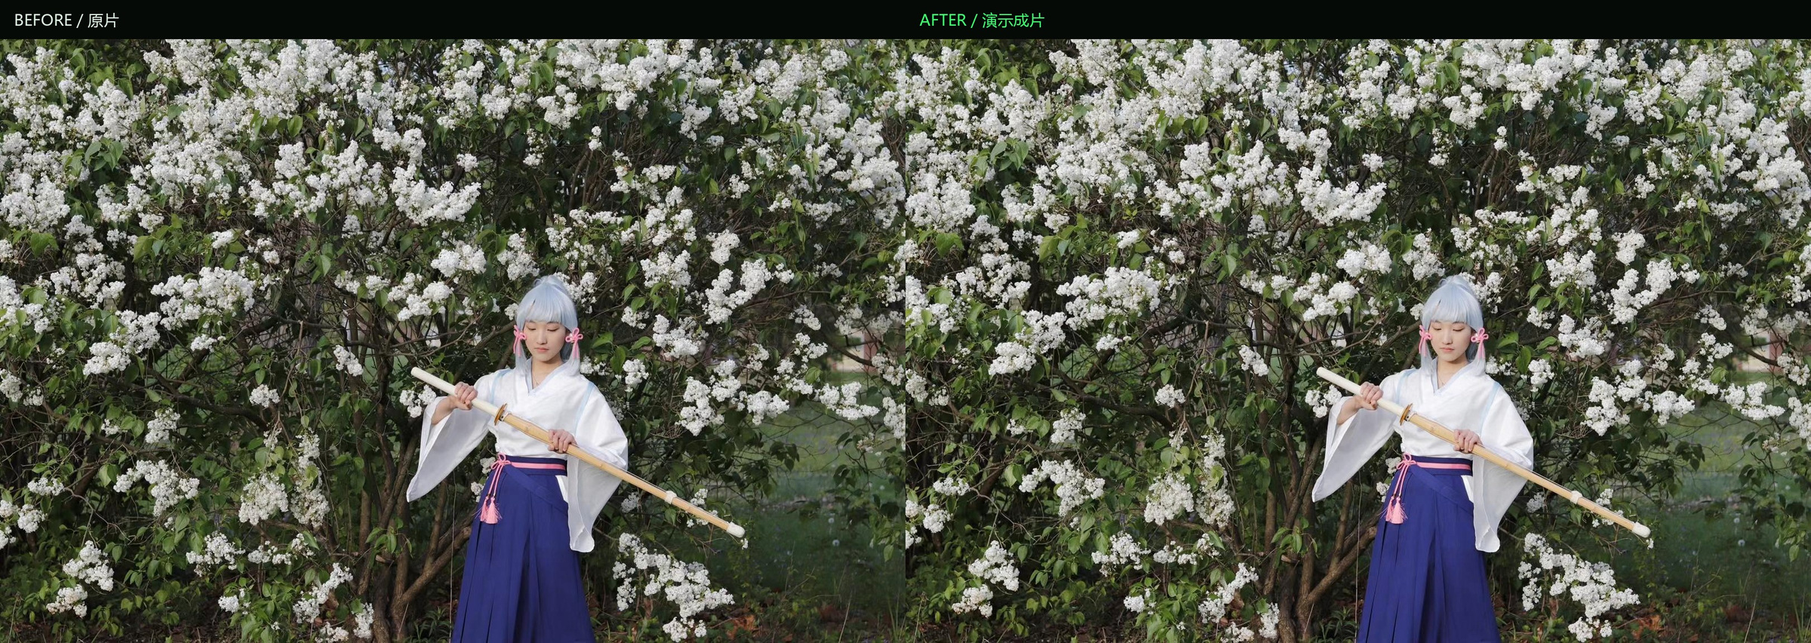
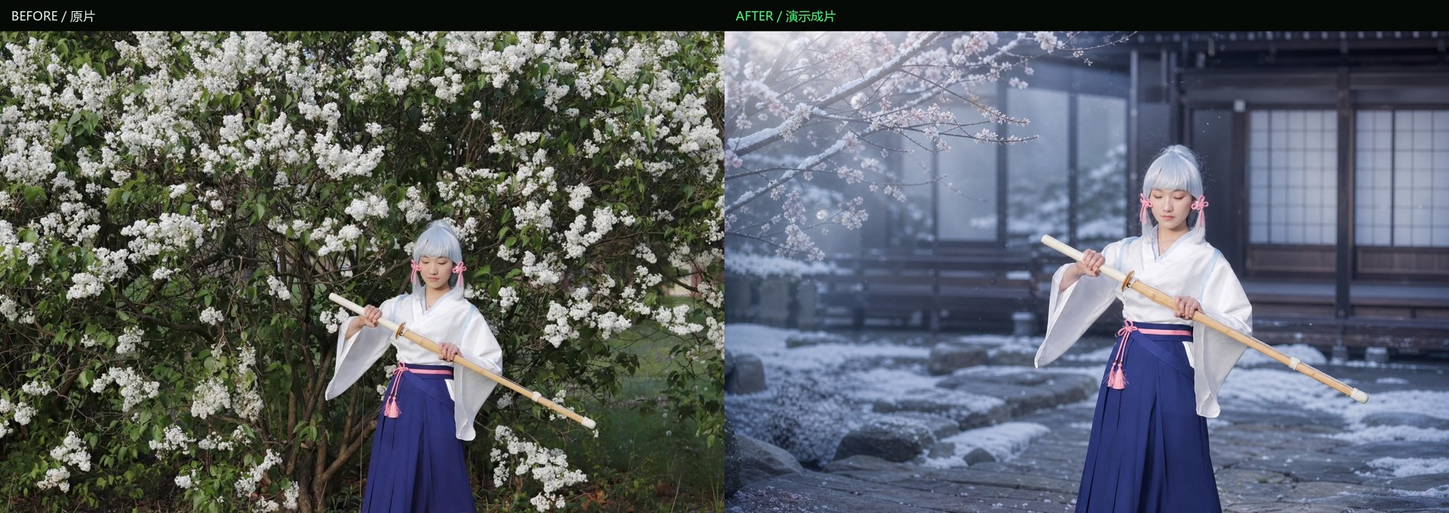
docs(demo): add Ayaka retouch showcase and neural narration

diff --git a/website/coskit/index.html b/website/coskit/index.html
@@ -23,15 +23,15 @@
   <div class="hero-grid"><div><h1>对话与画笔，<br>同一张<span>画布。</span><b class="cursor" aria-hidden="true">_</b></h1>
   <p class="lead">把后期的想法说出来，再亲手打磨每一个细节。<br>为 Cosplay 创作准备的开源图像工作台。</p>
   <div class="actions"><a class="button primary" href="#download">获取 CosKit <span>↓</span></a><a class="button" href="#tutorial">观看新手教程 <span>▶</span></a></div></div>
-  <aside class="terminal" aria-label="版本信息"><div class="terminal-bar"><i></i><i></i><i></i><span>release / manifest</span></div><p><span class="green">&gt;</span> coskit --version</p><strong>1.0.0 <span class="green">[STABLE]</span></strong><dl><div><dt>PLATFORM</dt><dd>Windows x64</dd></div><div><dt>WORKSPACE</dt><dd>Rust · egui · wgpu</dd></div><div><dt>PROJECT</dt><dd>.ckpipe / layers + history</dd></div><div><dt>LICENSE</dt><dd>MIT / 第三方许可保留</dd></div></dl><p class="muted">你的判断，始终在工作流里。</p></aside></div>
-  <figure class="workspace"><div class="frame-label"><span>01 / THE WORKSPACE</span><span>真实软件截图 · 原生桌面工作台</span></div><img src="media/workspace.webp" alt="CosKit 原生工作台，花间人像、AI 对话侧栏和底部版本条" width="1600" height="880" fetchpriority="high"><figcaption><span>FLUENT WORKSPACE</span> 中性画布 · 可组合侧栏 · 缩略图版本条</figcaption></figure>
+  <aside class="terminal" aria-label="版本信息"><div class="terminal-bar"><i></i><i></i><i></i><span>release / manifest</span></div><p><span class="green">&gt;</span> coskit --version</p><strong>1.0.0 <span class="green">[STABLE]</span></strong><dl><div><dt>PLATFORM</dt><dd>Windows · macOS</dd></div><div><dt>WORKSPACE</dt><dd>Rust · egui · wgpu</dd></div><div><dt>PROJECT</dt><dd>.ckpipe / layers + history</dd></div><div><dt>LICENSE</dt><dd>MIT / 第三方许可保留</dd></div></dl><p class="muted">你的判断，始终在工作流里。</p></aside></div>
+  <figure class="workspace"><div class="frame-label"><span>01 / THE WORKSPACE</span><span>真实软件截图 · 原生桌面工作台</span></div><img src="media/workspace.webp" alt="CosKit 原生工作台，神里绫华雪霁庭院修图、AI 对话侧栏和底部版本条" width="1600" height="880" fetchpriority="high"><figcaption><span>FLUENT WORKSPACE</span> 中性画布 · 可组合侧栏 · 缩略图版本条</figcaption></figure>
 </section>
 <section class="section wrap" id="compare">
-  <div class="section-head"><div><p class="eyebrow">02 / FROM INTENT TO IMAGE</p><h2>让结果自己说话。</h2></div><p>同一张照片，同一个尺寸。<br>拖动分界线，比较原片与本次演示成片。</p></div>
-  <div class="comparison" style="--split:50%"><img src="media/before.webp" alt="修图前：花树下的 Cosplay 人像" width="1620" height="1080" loading="lazy"><img class="after" src="media/after.webp" alt="修图后：更通透的肤色与白衣、柔和层次和克制的氛围光" width="1620" height="1080" loading="lazy"><div class="divider" aria-hidden="true"><span>↔</span></div><span class="image-label before-label">BEFORE / 原片</span><span class="image-label after-label">AFTER / 演示成片</span><input id="compare-range" type="range" min="0" max="100" value="50" aria-label="修图前后分界位置" aria-valuetext="原片与成片各显示一半"></div>
+  <div class="section-head"><div><p class="eyebrow">02 / FROM INTENT TO IMAGE</p><h2>让结果自己说话。</h2></div><p>同一张照片，画布尺寸不变。<br>拖动分界线，比较原片与本次演示成片。</p></div>
+  <div class="comparison" style="--split:50%"><img src="media/before.webp" alt="修图前：花树下的 Cosplay 人像" width="1620" height="1080" loading="lazy"><img class="after" src="media/after.webp" alt="修图后：雪霁庭院换景、清冷晨光、自然肤色与衣料层次" width="1620" height="1080" loading="lazy"><div class="divider" aria-hidden="true"><span>↔</span></div><span class="image-label before-label">BEFORE / 原片</span><span class="image-label after-label">AFTER / 演示成片</span><input id="compare-range" type="range" min="0" max="100" value="50" aria-label="修图前后分界位置" aria-valuetext="原片与成片各显示一半"></div>
   <div class="compare-controls"><span>← 原片</span><label for="compare-range">拖动或使用方向键 · <output id="compare-value">50%</output></label><span>成片 →</span></div>
-  <div class="prompt"><span class="green">USER &gt;</span><p>清新、通透的花间人像。改善人物与白衣的层次，保留肤质、发丝、花朵和身份，不改变构图。</p><span class="tag">目标由你定 · 步骤由模型分析</span></div>
-  <p class="note">本页展示一次实际修图，不代表每次模型输出都相同。演示成片包含效果检查与独立图层上的笔刷收尾；详细过程见下方教程。</p>
+  <div class="prompt"><span class="green">USER &gt;</span><p>将这张神里绫华照片修成雪霁庭院的清晨氛围。更换背景、自然美颜磨皮、统一调色与光影，保留闭眼神态、发丝、服装和道具，画布尺寸不变。</p><span class="tag">目标由你定 · 步骤由模型分析</span></div>
+  <p class="note">本页展示一次实际修图，允许优化人物的位置与占比，画布保持 1620×1080。模型每次输出可能不同。演示成片包含效果检查与独立图层上的笔刷收尾；角色方向参考《原神》官方 PV《雪霁逢椿》与角色资料，详细过程见下方教程。</p>
 </section>
 <section class="section wrap" id="workflow">
   <div class="section-head"><div><p class="eyebrow">03 / ONE CONTINUOUS WORKFLOW</p><h2>从一句目标，到可继续编辑。</h2></div><p>AI 与基础编辑共享工程。<br>保留图层，也保留作出选择的过程。</p></div>
@@ -43,14 +43,14 @@
   </div>
 </section>
 <section class="section wrap" id="tutorial">
-  <div class="section-head"><div><p class="eyebrow">04 / START HERE</p><h2>看一次，就能开始。</h2></div><p>功能介绍 + 新手操作教程<br>真实窗口录制 · 中文旁白 · 中英字幕</p></div>
+  <div class="section-head"><div><p class="eyebrow">04 / START HERE</p><h2>看一次，就能开始。</h2></div><p>神里绫华复杂修图 + 新手操作教程<br>真实窗口录制 · 神经语音旁白 · 中英字幕</p></div>
   <div class="video-frame"><video controls playsinline preload="metadata" poster="media/tutorial-poster.jpg" aria-label="CosKit 1.0.0 功能介绍与新手教程"><source src="media/coskit-tutorial.mp4" type="video/mp4"><track kind="subtitles" src="media/tutorial.zh.vtt" srclang="zh-CN" label="简体中文"><track kind="subtitles" src="media/tutorial.en.vtt" srclang="en" label="English"><p>浏览器不支持视频，请<a href="media/coskit-tutorial.mp4">下载 MP4</a>。</p></video></div>
-  <p class="note">录屏通过原生窗口帧采集，由本地 MCP 驱动实际编辑器；教程压缩了等待过程，画面会标示加速。旁白为合成语音。</p>
+  <p class="note">录屏通过原生窗口帧采集，由本地 MCP 驱动实际编辑器；教程压缩了等待过程，画面会标示加速。旁白采用晓晓神经合成语音，不仿冒角色声优。</p>
   <ol class="steps"><li><span>01</span><div><h3>打开照片，保存基准</h3><p>先保存为 .ckpipe，给起始版本命名。</p></div></li><li><span>02</span><div><h3>描述目标，检查结果</h3><p>配置自己的视觉模型，只描述希望达到的效果。</p></div></li><li><span>03</span><div><h3>局部收尾，另存导出</h3><p>独立图层画光影，比较细节，再导出 PNG/JPEG。</p></div></li></ol>
 </section>
 <section class="section wrap" id="download">
   <div class="section-head"><div><p class="eyebrow">05 / INSTALL + BUILD</p><h2>从这里开始创作。</h2></div><span class="tag">v1.0.0 / 第一个正式版本</span></div>
-  <div class="download-grid"><article class="panel"><h3>Windows x64</h3><p>提供安装版与便携 ZIP。便携版解压后运行 coskit.exe；基础编辑无需配置模型。</p><a class="button primary" href="https://github.com/DongSky/CosKit/releases" target="_blank" rel="noopener">查看发行页 <span>↗</span></a><p class="note">文件名：CosKit_1.0.0_x64-setup.exe<br>CosKit_1.0.0_x64_portable.zip<br>以发行页实际提供的附件为准。</p></article><article class="panel"><h3>从源码构建</h3><p>Rust 1.95+ · Node.js 20+ · Python 3<br>Windows 需 C++ Build Tools；打包另需 NSIS。</p><div class="code"><button id="copy-build" type="button" aria-label="复制构建命令">复制</button><pre id="build-code">git clone https://github.com/DongSky/CosKit.git
+  <div class="download-grid"><article class="panel"><h3>Windows x64</h3><p>提供安装版与便携 ZIP。便携版解压后运行 coskit.exe；基础编辑无需配置模型。</p><a class="button primary" href="https://github.com/DongSky/CosKit/releases/tag/v1.0.0" target="_blank" rel="noopener">查看发行页 <span>↗</span></a><p class="note">文件名：CosKit_1.0.0_x64-setup.exe<br>CosKit_1.0.0_x64_portable.zip<br>另提供 macOS Apple Silicon / Intel ZIP。</p></article><article class="panel"><h3>从源码构建</h3><p>Rust 1.95+ · Node.js 20+ · Python 3<br>Windows 需 C++ Build Tools；打包另需 NSIS。</p><div class="code"><button id="copy-build" type="button" aria-label="复制构建命令">复制</button><pre id="build-code">git clone https://github.com/DongSky/CosKit.git
 cd CosKit
 npm run build</pre></div><a class="text-link" href="https://github.com/DongSky/CosKit#readme" target="_blank" rel="noopener">阅读完整安装与模型配置说明 ↗</a><span id="copy-status" role="status" aria-live="polite"></span></article></div>
   <div class="roadmap"><span class="eyebrow">NEXT / TODO</span><p><span class="status pending">○ PLANNED</span> Android</p><p><span class="status pending">○ EXPLORING</span> 更多新功能：工作流、笔刷与创作体验</p></div>

diff --git a/scripts/render-release-media.py b/scripts/render-release-media.py
@@ -1,9 +1,9 @@
 """Build metadata-free local promo images and a captioned tutorial from real footage.
 
 Usage: python scripts/render-release-media.py --media /path/to/local/demo
-Requires Pillow, FFmpeg, and Windows System.Speech with a Chinese voice.
+Requires Pillow, FFmpeg, and edge-tts (optionally in a separate voice venv).
 """
-import argparse, json, math, pathlib, shutil, subprocess, textwrap, wave
+import argparse, json, math, pathlib, shutil, subprocess, sys, textwrap, wave
 from PIL import Image, ImageDraw, ImageFont
 
 ROOT=pathlib.Path(__file__).resolve().parents[1]
@@ -19,10 +19,12 @@ def fresh(path):
     src=Image.open(path).convert('RGB'); out=Image.new('RGB',src.size);out.paste(src);return out
 
 def main():
-    p=argparse.ArgumentParser();p.add_argument('--media',type=pathlib.Path,required=True);a=p.parse_args();base=a.media.resolve()
+    p=argparse.ArgumentParser();p.add_argument('--media',type=pathlib.Path,required=True);p.add_argument('--advanced',action='store_true');p.add_argument('--voice-python',default=sys.executable);p.add_argument('--voice',default='zh-CN-XiaoxiaoNeural');a=p.parse_args();base=a.media.resolve()
     web=base/'site-package/coskit/media';web.mkdir(parents=True,exist_ok=True)
     video=base/'video';video.mkdir(exist_ok=True)
     images={'before':base/'originals/source.png','after':base/'exports/after.png',**{n:base/'screenshots'/f'{n}.png' for n in ['workspace','ai-review','brush','parameters','detail']}}
+    clean_workspace=base/'screenshots/workspace-clean.png'
+    if clean_workspace.exists():images['workspace']=clean_workspace
     for name,path in images.items():fresh(path).save(web/f'{name}.webp',quality=90,method=6)
     before=fresh(images['before']);after=fresh(images['after'])
     compare=Image.new('RGB',(before.width*2,before.height+70),BG)
@@ -39,23 +41,45 @@ def main():
         photo=after.resize((960,640),Image.Resampling.LANCZOS);image.paste(photo,(865,215));d.rectangle((864,214,1826,856),outline=(46,90,58),width=2)
         d.text((90,968),'凉月 / Suzutsuki   ·   真实窗口演示 / REAL APP CAPTURE',font=font(24),fill=MUTED)
         image.save(video/f'{name}.png');return image
-    card('对话与画笔，\n同一张画布。','功能介绍 + 新手教程\n从原片，到可继续编辑的成片','intro').resize((1200,675)).save(web/'tutorial-poster.jpg',quality=93)
+    card('雪霁之后，\n庭前试刀。' if a.advanced else '对话与画笔，\n同一张画布。','复杂修图实战\n神里绫华 · 庭院换景 · 自然精修' if a.advanced else '功能介绍 + 新手教程\n从原片，到可继续编辑的成片','intro').resize((1200,675)).save(web/'tutorial-poster.jpg',quality=93)
     card('保留每一次尝试。','保存 .ckpipe 留下完整工程\n导出 PNG / JPEG 分享成片','outro')
     fresh(web/'tutorial-poster.jpg').resize((1200,630)).save(web/'social-card.jpg',quality=92)
     chapters=json.loads((base/'recordings/timeline.json').read_text(encoding='utf-8'))['chapters'];times={x['name']:x['time'] for x in chapters}
     script=[
       ('intro','CosKit 1.0.0','第一个正式版本 · 对话修图 + 原生编辑','欢迎使用 Cos Kit 一点零。这是第一个正式版本。接下来，用一张花间人像，看一次从对话修图到手工收尾的完整流程。','Welcome to CosKit 1.0, the first stable release. Follow a floral portrait from conversational editing to manual finishing.'),
-      ('open','01 / 打开照片，留下原片','Ctrl+O 打开 · 另存为 .ckpipe · 记录基准','先打开照片，确认画布尺寸。另存为 CK Pipe 工程，再给起始版本命名。这样，后续的图层、参数、对话和版本，都能保存在同一个工程里。','Open the photo and check its dimensions. Save a CKPipe project and name a baseline. Layers, parameters, conversations and versions stay together.'),
+      ('open','01 / 打开照片，留下原片','Ctrl+O 打开 · 另存为 .ckpipe · 记录基准','打开照片后，先确认画布尺寸，再存一份工程，给原片留个版本。之后的图层、参数和对话，就都能保存在一起。想重新尝试，也有地方可以退回来。','Open the photo and check its dimensions. Save a CKPipe project and name a baseline. Layers, parameters, conversations and versions stay together.'),
       ('ai','02 / 只描述你想要的效果','先在「选项」配置模型 · 不需要指定具体工作流','使用对话前，在选项中配置自己的模型。这里只描述目标：让人物清新通透，同时保留肤质、白衣和花朵的层次。模型自己分析步骤，发现工具并执行。这一段等待已经加速。','Configure your models in Options. Describe the desired result, preserving skin, white fabric and flowers. The model discovers tools and plans the steps. Waiting is accelerated here.'),
       ('review','03 / 结果还需要细看','独立审核 · 原尺寸局部 · 不通过就回退','调整完成后，模型还会检查全图和原尺寸局部。你也可以展开过程记录，了解做了什么。审核通过后，结果才进入工程；是否满意，仍由你决定。','The reviewer inspects the whole image and native-size crops. Expand the trace to see the actions. Approved results enter the project; the final creative judgment remains yours.'),
       ('brush','04 / 在独立图层上收尾','低流量柔笔刷 · 克制地补一点花间光感','接下来新建图层，用低流量的柔笔刷，在花朵附近补一点柔光。手工收尾和 AI 使用同一张画布。独立图层让你随时降低强度、隐藏，或者撤销。','Create a separate layer and add restrained soft light near the flowers with a low-flow brush. Manual work shares the AI canvas. Reduce, hide or undo the layer whenever needed.'),
-      ('parameters','05 / 看得懂，也改得动','版本条「参数」 · 曲线、滑杆 · 明确选择基准','点开版本条的参数，可以直接看曲线和滑杆。需要重放时，先明确选择基准和编辑记录。重放成功会生成新分支，原来的版本仍然保留。','Open Parameters in the version strip for curves and sliders. Choose the baseline and operation before replaying. A successful replay creates a branch and retains earlier versions.'),
+      ('parameters','05 / 看得懂，也改得动','版本条「参数」 · 曲线、滑杆 · 明确选择基准','点开下方版本条里的参数，就能看到曲线和滑杆。想换一种调色，可以选好起始版本和那条编辑记录，再调整参数、重新执行。新的结果会单独留下来，方便继续比较。','Open Parameters in the version strip for curves and sliders. Choose the baseline and operation before replaying. A successful replay creates a branch and retains earlier versions.'),
       ('compare','06 / 从全图检查到发丝细节','对比 → 100% → 200% → 差异图','最后对比原片和成片。左右同步缩放，检查脸部、发丝与衣料。百分之百看原尺寸，百分之二百放大，差异图帮助定位变化。浏览对比不会修改画布。','Compare the original and result with synchronized views. Inspect the face, hair and fabric at 100% and 200%. Difference view locates changes. Comparison does not modify the canvas.'),
-      ('save','07 / 工程与成片，分别保存','保存 .ckpipe · 导出 PNG / JPEG','保存 CK Pipe 保留图层、对话和版本。需要分享时，再导出 PNG 或 JPEG。演示最后重新打开了工程，画布尺寸和导出的像素都与保存前一致。','Save CKPipe for layers, conversation and versions. Export PNG or JPEG for sharing. The demo reopens the project and verifies unchanged dimensions and exported pixels.'),
-      ('outro','CosKit 1.0.0','开源创作工作台 · 凉月 / Suzutsuki','从一个目标开始，也随时拿回画笔。Cos Kit 一点零，期待你的下一张作品。','Start with a goal, and pick up the brush whenever you want. CosKit 1.0 is ready for your next creative project.')]
+      ('save','07 / 工程与成片，分别保存','保存 .ckpipe · 导出 PNG / JPEG','修好以后，记得把工程也存下来。它会保留图层、对话和版本，方便下次接着改。发图时，再导出普通图片。普通图片会合并图层，所以工程也要留着。最后，我们重新打开工程，确认保存前后的尺寸和画面完全一致。','Save CKPipe for layers, conversation and versions. Export PNG or JPEG for sharing. The demo reopens the project and verifies unchanged dimensions and exported pixels.'),
+      ('outro','CosKit 1.0.0','开源创作工作台 · 凉月 / Suzutsuki','先说出想法，再动手打磨。希望这次演示，能给你的下一张作品一点灵感。','Start with a goal, and pick up the brush whenever you want. CosKit 1.0 is ready for your next creative project.')]
     segments=[dict(zip(['id','title','caption','zh','en'],x)) for x in script]
+    if a.advanced:
+        advanced = {
+            'intro': ('CosKit / 复杂修图实战','换背景 · 调色 · 自然美颜磨皮 · 光影融合',
+                '这次，我们来修一张神里绫华的照片。参考角色的冰元素和雪后庭院意象，先换背景，再整理肤色和光线。一起看看，对话修图和手工收尾，怎么在同一个工程里配合。',
+                'Retouch a Kamisato Ayaka cosplay with a snow-cleared courtyard, natural skin and coherent light, drawing on her Cryo and garden imagery. Follow conversational editing and manual finishing in the same project.'),
+            'ai': ('02 / 一条完整的成片指令','背景可重建 · 人物身份与服饰保留 · 画布尺寸不变',
+                '先说清楚想要的成片：雪后的日式庭院，冷白、浅蓝和淡紫，带一点清晨的暖光。保留人物的闭眼神态、服装和手里的道具。肤色修得自然一些，细节别磨掉。接下来，由模型安排步骤、调用工具，再检查效果。这里加速了等待过程。',
+                'Describe a Japanese courtyard after snow: cool whites, pale blue and lilac with a little warm morning light. Preserve the closed eyes, pose, costume, prop and skin detail. The harness plans, executes and reviews its workflow. Waiting is accelerated.'),
+            'review': ('03 / 换景之后，检查人物','检查脸、发丝、手部、服装和武器边缘',
+                '换好背景以后，先别急着导出。放大看看脸、手指和刀鞘，再检查发丝和白衣的边缘。模型会审核结果，发现新问题就回退。我们也要再看一遍，确认画面符合自己的想法。',
+                'After replacing the background, inspect the face, fingers, scabbard, hair and white fabric at full size. The harness reviews the result and rolls back new problems. Check the final image yourself as well.'),
+            'brush': ('04 / 独立图层补光','低流量软笔刷 · 保留可撤销的手工收尾',
+                '接着，新建一个图层，用低流量的软笔刷，轻轻补一点晨光。别涂到五官上，也不用一次画得太重。这个图层可以随时隐藏，或者降低强度，再慢慢找到合适的光感。',
+                'Add a restrained touch of ambient light on a separate layer with a low-flow soft brush, away from facial features. Manual finishing and AI edits share one project and remain editable.'),
+            'compare': ('06 / 大变化，也要查小细节','原尺寸对比 · 肤质 / 发丝 / 衣料 · 画布 1620 × 1080',
+                '现在把原片和成片放在一起看。先看整体，再放大检查肤质、发丝和衣料。留意有没有过度磨皮，边缘有没有不自然的亮圈。这里改变的只是查看倍率，画布仍然是一千六百二十乘一千零八十。',
+                'Compare the full image, then inspect the face, hair and white fabric. Look for excessive smoothing, edge halos and mismatched lighting. Zooming only changes the view: the canvas remains 1620 by 1080.'),
+        }
+        for segment in segments:
+            if segment['id'] in advanced:
+                segment.update(dict(zip(('title','caption','zh','en'),advanced[segment['id']])))
     (video/'storyboard.json').write_text(json.dumps(segments,ensure_ascii=False,indent=2),encoding='utf-8')
-    subprocess.run(['powershell','-NoProfile','-File',str(ROOT/'scripts/synthesize-release-narration.ps1'),'-Directory',str(video)],check=True)
+    subprocess.run([a.voice_python,str(ROOT/'scripts/synthesize-release-narration.py'),'--directory',str(video),'--voice',a.voice],check=True)
+    voice_manifest=json.loads((video/'voice-manifest.json').read_text(encoding='utf-8'))
     clock=0;subs={'zh':[],'en':[]};edits=[]
     def stamp(t):
         ms=round(t*1000);return f'{ms//3600000:02}:{ms//60000%60:02}:{ms//1000%60:02}.{ms%1000:03}'
@@ -84,11 +108,17 @@ def main():
         dest=video/(s['id']+'-edit.mp4')
         command=['ffmpeg','-hide_banner','-loglevel','error','-y',*inputs,'-i',str(video/(s['id']+'.wav')),*filters,'-map',f'{audio_index}:a','-af','apad,loudnorm=I=-16:TP=-1.5:LRA=11','-t',str(duration),'-c:v','libx264','-preset','fast','-crf','19','-c:a','aac','-b:a','160k','-ar','48000','-pix_fmt','yuv420p','-movflags','+faststart','-map_metadata','-1',str(dest)]
         run(command);edits.append(dest)
-        for lang in subs:subs[lang].append(f'{stamp(clock)} --> {stamp(clock+duration)}\n{s[lang]}\n')
+        cues=json.loads((video/(s['id']+'-timing.json')).read_text(encoding='utf-8'))
+        for cue_index,cue in enumerate(cues):
+            # Service sentence timings can overlap by about 50 ms.
+            next_start=cues[cue_index+1]['start'] if cue_index+1<len(cues) else duration
+            cue_end=min(cue['end'],next_start,duration)
+            subs['zh'].append(f"{stamp(clock+cue['start'])} --> {stamp(clock+cue_end)}\n{cue['text']}\n")
+        subs['en'].append(f"{stamp(clock)} --> {stamp(clock+duration)}\n{s['en']}\n")
         s.update(start=round(clock,3),duration=round(duration,3),playback_speed=round(speed,3));clock+=duration
         print('Rendered',s['id'],round(duration,1),'s',flush=True)
     concat=video/'concat.txt';concat.write_text('\n'.join("file '"+p.name+"'" for p in edits),encoding='utf-8')
-    final=video/'CosKit-1.0.0-introduction-and-tutorial.mp4'
+    final=video/('CosKit-1.0.0-advanced-retouch-tutorial.mp4' if a.advanced else 'CosKit-1.0.0-introduction-and-tutorial.mp4')
     run(['ffmpeg','-hide_banner','-loglevel','error','-y','-f','concat','-safe','0','-i',str(concat),'-c','copy','-map_metadata','-1','-movflags','+faststart',str(final)])
     probe=json.loads(subprocess.check_output(['ffprobe','-v','error','-show_streams','-of','json',str(final)]))
     assert any(s.get('codec_type')=='video' and s.get('width')==1920 and s.get('height')==1080 for s in probe['streams']), 'Missing 1080p video stream'
@@ -96,7 +126,7 @@ def main():
     shutil.copy2(final,web/'coskit-tutorial.mp4')
     for lang,cues in subs.items():
         text='WEBVTT\n\n'+'\n'.join(cues);(video/f'tutorial.{lang}.vtt').write_text(text,encoding='utf-8');(web/f'tutorial.{lang}.vtt').write_text(text,encoding='utf-8')
-    (video/'edit-manifest.json').write_text(json.dumps({'duration':clock,'segments':segments,'source':'real-window-capture','voice':'Microsoft Huihui Desktop','author':'Suzutsuki / 凉月'},ensure_ascii=False,indent=2),encoding='utf-8')
+    (video/'edit-manifest.json').write_text(json.dumps({'duration':clock,'segments':segments,'source':'real-window-capture','voice':voice_manifest,'author':'Suzutsuki / 凉月'},ensure_ascii=False,indent=2),encoding='utf-8')
     for file in (ROOT/'website/coskit').iterdir():
         if file.is_file():shutil.copy2(file,web.parent/file.name)
     local=ROOT/'website/coskit/media';local.mkdir(exist_ok=True)

diff --git a/scripts/create-release-demo.py b/scripts/create-release-demo.py
@@ -17,8 +17,13 @@ def main():
     parser.add_argument('--output', type=pathlib.Path, required=True)
     parser.add_argument('--ai-data', type=pathlib.Path, required=True)
     parser.add_argument('--port', type=int, default=50531)
+    parser.add_argument('--advanced', action='store_true', help='Full background, lighting and skin-retouch demo')
+    parser.add_argument('--prompt-file', type=pathlib.Path, help='UTF-8 creative brief, including verified character context')
     args = parser.parse_args()
+    if args.advanced and not args.prompt_file:
+        parser.error("--advanced requires --prompt-file with a verified creative brief")
     out = args.output.resolve()
+    project_path = 'exports/雪霁·庭前试刀.ckpipe' if args.advanced else 'exports/花间·演示.ckpipe'
     for folder in ('originals','screenshots','recordings','exports','video'):
         (out/folder).mkdir(parents=True, exist_ok=True)
     original = ImageOps.exif_transpose(Image.open(args.image)).convert('RGB')
@@ -55,14 +60,17 @@ def main():
             m.tool('doc_open',{'path':'originals/source.png'})
             m.control('ui.set',{'fit':True})
             m.command('coskit.project.checkpoint',{'label':'原片 · 花间'})
-            m.control('app.save',{'path':'exports/花间·演示.ckpipe'})
+            m.control('app.save',{'path':project_path})
             time.sleep(5);shot('before')
             mark('ai')
-            m.tool('ai_configure',{'harness_enabled':True,'harness_max_steps':16,'harness_max_images':0,'harness_max_rollbacks':3})
+            m.tool('ai_configure',{'harness_enabled':True,'harness_max_steps':24 if args.advanced else 16,'harness_max_images':4 if args.advanced else 0,'harness_max_rollbacks':3})
             prompt='请把这张花树下的 cosplay 人像修成清新通透、自然柔和的成片。适度改善人物肤色与白衣亮度，保留皮肤质感、银蓝发丝、白花高光和深蓝衣裙层次，背景绿叶稍微柔和一些。保持人物身份、五官、服装、花朵、武器、构图和画布尺寸，不增删物体，不磨皮成塑料，不要改动五官。你自行分析并决定调整与验收步骤。'
+            if args.prompt_file:
+                prompt=args.prompt_file.read_text(encoding='utf-8').strip()
+            (out/'recordings/demo-goal.txt').write_text(prompt,encoding='utf-8')
             m.tool('ai_edit',{'prompt':prompt})
             last=0
-            while time.monotonic()-start<950:
+            while time.monotonic()-start<(2100 if args.advanced else 950):
                 status=m.tool('ai_status')
                 if not status['busy']:break
                 elapsed=int(time.monotonic()-start)
@@ -74,13 +82,13 @@ def main():
             report['ai_outcome']=status['outcome']
             if status['outcome']!='applied':raise RuntimeError('AI did not apply a reviewed edit; inspect local private status')
             mark('review')
-            m.command('coskit.project.checkpoint',{'label':'AI · 通透调色'})
+            m.command('coskit.project.checkpoint',{'label':'AI · 换景 / 调色 / 自然精修' if args.advanced else 'AI · 通透调色'})
             time.sleep(5);shot('ai-review')
             m.tool('doc_save',{'path':'exports/ai.png'})
             time.sleep(5)
             mark('brush')
             m.control('ui.set',{'studio':{'inspector':'layers'}})
-            m.command('layer.new.layer',{'name':'手绘 · 花间柔光'})
+            m.command('layer.new.layer',{'name':'手绘 · 晨光' if args.advanced else '手绘 · 花间柔光'})
             # Original-photo coordinates. Soft light is placed among flowers, away from facial features.
             scale=clean.width/1620
             points=[(1110,330),(1130,305),(1150,280),(1170,255),(1190,235),(1210,220)]
@@ -88,7 +96,7 @@ def main():
                 m.tool('brush_stroke',{'preset':'Soft Round','points':[{'x':x*scale,'y':y*scale,'pressure':.35}],
                     'size':180*scale,'color':'#fff0d0','flow':.08,'opacity':.12,'seed':100+index})
                 time.sleep(.45)
-            m.command('coskit.project.checkpoint',{'label':'笔刷 · 花间柔光'})
+            m.command('coskit.project.checkpoint',{'label':'笔刷 · 晨光' if args.advanced else '笔刷 · 花间柔光'})
             time.sleep(4);shot('brush')
             mark('parameters')
             m.command('image.adjustments.curves',{'points':[[0,0],[64,66],[128,130],[192,194],[255,255]]})
@@ -111,12 +119,12 @@ def main():
             m.control('ui.set',{'studio':{'inspector':'ai'},'fit':True})
             info=m.tool('doc_inspect')
             assert (info['width'],info['height'])==clean.size
-            m.control('app.save',{'path':'exports/花间·演示.ckpipe'})
+            m.control('app.save',{'path':project_path})
             m.tool('doc_save',{'path':'exports/after.png'})
             time.sleep(6);shot('workspace')
             report['final_document']={k:info[k] for k in ('width','height')}
             # Save/reopen and verify decoded pixels, rather than relying on file existence.
-            m.tool('doc_open',{'path':'exports/花间·演示.ckpipe'})
+            m.tool('doc_open',{'path':project_path})
             m.tool('doc_save',{'path':'exports/reopened.png'})
             from PIL import ImageChops
             assert ImageChops.difference(Image.open(out/'exports/after.png'),Image.open(out/'exports/reopened.png')).getbbox() is None

diff --git a/scripts/synthesize-release-narration.py b/scripts/synthesize-release-narration.py
@@ -1,0 +1,61 @@
+"""Synthesize public tutorial text using Edge neural TTS; never fall back silently.
+
+Install edge-tts in a separate venv, then pass that interpreter to the renderer.
+Only storyboard text is sent to the online speech service.
+"""
+import argparse
+import asyncio
+import hashlib
+import json
+from pathlib import Path
+import subprocess
+
+import edge_tts
+
+
+async def synthesize(args):
+    directory = args.directory.resolve()
+    segments = json.loads((directory / 'storyboard.json').read_text(encoding='utf-8'))
+    manifest = {'provider': 'Microsoft Edge online neural TTS', 'voice': args.voice,
+                'rate': args.rate, 'segments': []}
+    for segment in segments:
+        name = segment['id']
+        if not name or any(c not in 'abcdefghijklmnopqrstuvwxyz0123456789-_' for c in name):
+            raise ValueError('Unsafe segment id')
+        text = segment['zh']
+        fingerprint = hashlib.sha256((args.voice + args.rate + text).encode()).hexdigest()
+        mp3 = directory / f'{name}-neural.mp3'
+        cache = directory / f'{name}-neural.json'
+        timing = directory / f'{name}-timing.json'
+        cached = json.loads(cache.read_text()) if cache.exists() else {}
+        if not mp3.exists() or not timing.exists() or cached.get('fingerprint') != fingerprint:
+            temporary = mp3.with_suffix('.tmp.mp3')
+            cues = []
+            with temporary.open('wb') as audio:
+                async for chunk in edge_tts.Communicate(text, args.voice, rate=args.rate).stream():
+                    if chunk['type'] == 'audio':
+                        audio.write(chunk['data'])
+                    elif chunk['type'] == 'SentenceBoundary':
+                        cues.append({'start': chunk['offset'] / 10000000,
+                                     'end': (chunk['offset'] + chunk['duration']) / 10000000,
+                                     'text': chunk['text']})
+            if not cues or temporary.stat().st_size == 0:
+                raise RuntimeError(f'Missing speech or subtitle timings: {name}')
+            temporary.replace(mp3)
+            timing.write_text(json.dumps(cues, ensure_ascii=False), encoding='utf-8')
+            cache.write_text(json.dumps({'fingerprint': fingerprint}), encoding='utf-8')
+        subprocess.run(['ffmpeg', '-hide_banner', '-loglevel', 'error', '-y', '-i', str(mp3),
+                        '-ar', '48000', '-ac', '1', '-map_metadata', '-1',
+                        str(directory / f'{name}.wav')], check=True)
+        manifest['segments'].append({'id': name, 'fingerprint': fingerprint})
+        print(f'Narration ready: {name}', flush=True)
+    (directory / 'voice-manifest.json').write_text(
+        json.dumps(manifest, ensure_ascii=False, indent=2), encoding='utf-8')
+
+
+if __name__ == '__main__':
+    parser = argparse.ArgumentParser(description=__doc__)
+    parser.add_argument('--directory', type=Path, required=True)
+    parser.add_argument('--voice', default='zh-CN-XiaoxiaoNeural')
+    parser.add_argument('--rate', default='-4%')
+    asyncio.run(synthesize(parser.parse_args()))

diff --git a/docs/demo-ayaka-brief.md b/docs/demo-ayaka-brief.md
@@ -1,0 +1,33 @@
+# 神里绫华演示修图参考
+
+角色身份由照片提供者明确确认。视觉设计先参考角色资料，再结合真人照片现有服装、动作与摄影条件；不把角色立绘直接替换到真人身上。
+
+## 已核对的参考
+
+- [《原神》官方 PV《雪霁逢椿》](https://www.bilibili.com/video/av298290791/)：原神官方账号发布；文案以严冬、霜雪与雪霁后的春日展开。作为庭院练剑和冰霜主题的创作参考，不把官方视频剪进演示。
+- [神里绫华角色资料](https://wiki.biligame.com/ys/神里绫华)：稻妻社奉行神里家大小姐，称号「白鹭霜华」，冰元素、单手剑，雪鹤座；角色气质端庄而文雅、聪慧又坚韧。此页面为社区资料，不能将其中考据全部当作官方原文。
+- 官方介绍入口：[如霜凝华，如鹭在庭](https://ys.mihoyo.com/main/news/detail/116695)。该站正文在当前浏览环境未正常呈现，人物描述与资料页转载交叉参考。
+
+## 本次创作方向
+
+「雪霁·庭前试刀」：清晨雪霁的稻妻神里家风格庭院，木廊与障子门、石径、局部薄雪和淡色花枝。冷白、浅蓝与淡紫为主，微量暖晨光；留白与空气感衬托人物。冰晶和飞散花瓣只作克制的元素提示。
+
+画布固定为 1620×1080；允许为成片适度优化人物位置与画面占比，不把查看缩放与工程尺寸混为一谈。构图改变必须在前后对比中如实展示，不能据此宣称人物像素严格原位保留。
+
+真人原片为白色上衣、深蓝袴、银蓝发色与粉色发结，闭眼持刀。保留这些已经拍摄到的内容；不强制改成游戏常服，不换成另一把游戏武器，不添加巨大冰龙、魔法阵、雷电或战斗爆炸。她的冰元素与稻妻地区的雷元素必须区分。
+
+同时演示换背景、人物与环境光匹配、整体调色、局部肤色整理与轻度磨皮。保留闭眼神态、妆容、脸型、手指、发丝、衣褶和武器几何。所有验收以实际结果为准，不仅凭模型声称成功。
+
+## 配音
+
+使用通用神经网络女声讲解，采用口语化短句、自然停顿与适当语速。配音明确为合成语音，不仿冒绫华官方声优，不照搬角色台词。完整视频和工程仍留本地，只有已授权的展示图进入 README。
+
+## 可复现的演示制作
+
+复杂演示必须向 `scripts/create-release-demo.py` 提供 `--advanced --prompt-file`，避免把泛用夜景风格套给具体角色。脚本通过实际 MCP 调用编辑器，记录窗口帧、审核过程、笔刷、参数与版本比较，最后重新打开 CKPipe 比较像素，校验画布尺寸。
+
+教程使用 `scripts/synthesize-release-narration.py` 的在线晓晓神经语音，语速 -4%，中文 VTT 按语音服务提供的逐句时间生成，并消除相邻句边界的微小重叠。语音来源写入本地 manifest，失败不回退旧声线。
+
+实测发现，视觉审核若只看到执行器的长期意图，有时会把“选区准备”误判成一次失败的换景。本次修正将实际工具参数交给审核器；对确认没有改变合成像素的选区操作，保留隔离检查点并继续工作，仍须通过后续视觉审核才能提交。回归测试覆盖选区后的真实笔刷、选区外像素保护，以及只有准备操作时不提交结果。该修正位于主分支，不改写已发布的 v1.0.0 标签。
+
+另一项修正让最近四轮审核结论跨工具发现、原尺寸局部观察持续保留，防止即时工具反馈覆盖回退原因、导致模型反复尝试同一种失败方法。集成回归测试通过真实 MCP 执行失败笔刷、文档查询和修正笔刷，并检查后续决策请求仍含先前的失败证据。

diff --git a/website/README.md b/website/README.md
@@ -25,7 +25,7 @@ python -m http.server 8080 --bind 127.0.0.1 --directory website
 </a>
 ```
 
-4. 检查下载入口。当前指向项目 Releases 列表，不假设尚未上传的二进制附件已经存在；正式附件上传后可以换成确定的版本下载地址。
+4. 检查下载入口。当前指向已发布的 v1.0.0，包含 Windows 安装版、便携版和 macOS Apple Silicon / Intel ZIP。
 5. 推荐响应头 `X-Content-Type-Options: nosniff`，HTML 使用 `text/html; charset=utf-8`，VTT 使用 `text/vtt; charset=utf-8`；视频支持 Range 请求。MP4 已准备 faststart。
 6. 检查桌面/手机布局、键盘操作比较滑杆、视频播放、字幕和赞助链接。
 
@@ -34,3 +34,15 @@ python -m http.server 8080 --bind 127.0.0.1 --directory website
 `workspace.webp`, `before.webp`, `after.webp`, `ai-review.webp`, `brush.webp`, `parameters.webp`, `detail.webp`, `tutorial-poster.jpg`, `social-card.jpg`, `coskit-tutorial.mp4`, `tutorial.zh.vtt`, `tutorial.en.vtt`。
 
 页面注明真实窗口由 MCP 驱动、等待片段加速、旁白为合成语音。原图与修图结果属于用户提供的独立演示素材，不随代码许可证重新授权。
+
+## 重建教程
+
+在仓库根目录准备 Python 环境，安装 Pillow；另建语音 venv 安装 `edge-tts`，并安装 FFmpeg。在线语音服务只接收公开解说文本，不上传照片或工程。默认声线为 `zh-CN-XiaoxiaoNeural`，语速降低 4%；不再默认使用 Windows 离线语音。
+
+```sh
+python scripts/render-release-media.py --media /path/to/recorded-demo --advanced --voice-python /path/to/voice-venv/python --voice zh-CN-XiaoxiaoNeural
+```
+
+素材目录须包含录屏脚本产出的截图、导出图、`recordings/timeline.json` 和真实窗口录屏。渲染器生成中文神经旁白、中英文字幕、1080p 教程及网页素材，旁白指纹缓存允许中断后继续。服务失败会明确报错，不静默换回旧声线。`video/voice-manifest.json` 记录声线及合成来源。公开解说不含私人路径与模型配置。
+
+角色创作依据见 [神里绫华演示参考](../docs/demo-ayaka-brief.md)。

diff --git a/README.en.md b/README.en.md
@@ -28,11 +28,13 @@ The editor retains the integrated reference project's functionality. This is not
 
 A real workspace capture showing native editing, AI conversation and thumbnail version history around the same canvas.
 
-![CosKit 1.0.0 workspace with a floral portrait, AI conversation and version thumbnails](docs/images/coskit-v1-workspace.jpg)
+![CosKit 1.0.0 workspace with a Kamisato Ayaka courtyard edit, AI conversation and version thumbnails](docs/images/coskit-v1-workspace.jpg)
 
-Before and after (original on the left, demo result on the right): clarity, color and soft-light adjustments. The canvas stayed at **1620 × 1080** throughout editing; the comparison below is resized for display.
+Kamisato Ayaka, “Sword Practice After Snow” (original left, result right): courtyard background replacement, cool morning color grading, natural skin retouching and light painted on a separate layer. This example allows changes to subject placement and scale while keeping the canvas at **1620 × 1080**. The comparison is resized for display.
 
-![Floral portrait comparison: original on the left, color and soft-light edits on the right](docs/images/coskit-v1-before-after.jpg)
+![Kamisato Ayaka comparison: floral original on the left, snow-cleared courtyard on the right](docs/images/coskit-v1-before-after.jpg)
+
+The creative direction draws on the official “Tsubaki in Thawing Snow” video and character references; see the [demo brief](docs/demo-ayaka-brief.md). The tutorial uses Xiaoxiao neural narration, sentence-timed Chinese captions and English subtitles. Reopening CKPipe verified identical dimensions and exported pixels. The recording uses a main-branch build with subsequent harness fixes.
 
 These two preview images are published with metadata removed. The full walkthrough and tutorial video, original photos and project media are delivered separately and kept local. The promotional page lives in [website/coskit](website/coskit); [integration instructions](website/README.md) describe deployment under `prts.si/coskit/` and local preview before it goes live.
 

diff --git a/README.md b/README.md
@@ -28,11 +28,13 @@
 
 真实工作台截图：在同一画布中使用基础编辑、AI 对话修图和缩略图版本条。
 
-![CosKit 1.0.0 工作台：花间人像、AI 修图对话与版本缩略图](docs/images/coskit-v1-workspace.jpg)
+![CosKit 1.0.0 工作台：神里绫华雪霁庭院修图、AI 对话与版本缩略图](docs/images/coskit-v1-workspace.jpg)
 
-修图前后对比（左为原片，右为演示成片）：调整通透感、色彩与柔光，修图过程中画布保持 **1620 × 1080**；下图为缩放后的展示图。
+神里绫华「雪霁·庭前试刀」修图对比（左为原片，右为成片）：庭院换景、清冷晨光调色、自然肤质修饰与独立图层补光。本例允许优化人物位置和占比，画布始终保持 **1620 × 1080**；下图为缩放后的展示图。
 
-![花间人像修图对比：左侧原片，右侧调色与柔光后的成片](docs/images/coskit-v1-before-after.jpg)
+![神里绫华修图对比：左侧花树原片，右侧雪霁庭院成片](docs/images/coskit-v1-before-after.jpg)
+
+角色方向参考官方 PV《雪霁逢椿》与角色资料，详见 [创作依据与演示说明](docs/demo-ayaka-brief.md)。新版教程采用晓晓神经语音、逐句中文字幕与英文字幕。工程重新打开后，画布尺寸与导出像素均验证一致。演示使用包含 Harness 后续修复的主分支构建。
 
 本节公开两张已清除元数据的展示图；完整功能介绍与新手教程视频、原始照片和工程素材单独本地交付。宣传页源码在 [website/coskit](website/coskit)，接入 `prts.si/coskit/` 的说明见 [website/README.md](website/README.md)。页面上线前可先本地预览。
 
